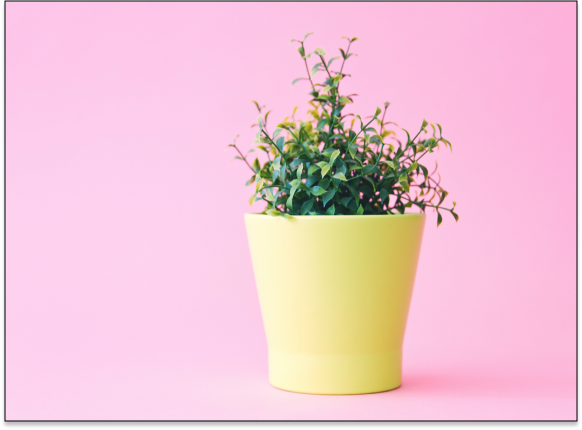
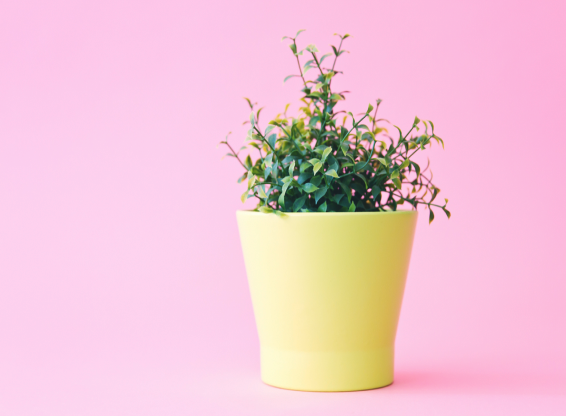
#8

Changed region(s): [[0.0, 0.0, 1.0, 1.0]]

diff --git a/style.css b/style.css
@@ -25,7 +25,7 @@ body {
 img {
   width: 100%;
   height: 100%;
-  object-fit: contain;
+  object-fit: cover;
   object-position: center;
 }
 
@@ -72,7 +72,7 @@ details > summary {
 }
 
 .menu__btn img {
-  object-fit: cover;
+  object-fit: contain;
 }
 
 .menu__nav {
@@ -106,6 +106,9 @@ details > summary {
 .logo {
   width: 5.9rem;
   height: 3.9rem;
+}
+.header__logo-img {
+  object-fit: contain;
 }
 
 /* TOP BANNER  */
@@ -167,6 +170,7 @@ details > summary {
   filter: progid:DXImageTransform.Microsoft.gradient(startColorstr="#4a4a4a", endColorstr="#ffffff", GradientType=1);
 }
 .potted {
+  margin-bottom: 23rem;
   position: relative;
   padding-top: 14.1rem;
 }
@@ -257,7 +261,7 @@ details > summary {
 
 .carousel__article {
   max-width: 43.3rem;
-  margin-right: 40px;
+  margin-right: 4rem;
 }
 
 .carousel__title {
@@ -310,6 +314,107 @@ details > summary {
   background: transparent;
 }
 
+.vp {
+  min-height: 57.2rem;
+}
+.vp > .wrapper {
+  display: flex;
+  flex-wrap: wrap-reverse;
+  gap: 1rem;
+  justify-content: center;
+}
+.vp__article {
+  display: flex;
+  justify-content: space-between;
+}
+.vp__article-vase {
+  max-width: 38rem;
+  flex-direction: row;
+}
+.vp__article-spot {
+  max-width: 57.2rem;
+  flex-direction: column;
+}
+.vp__info {
+  display: flex;
+  flex-direction: column;
+  margin-bottom: 27rem;
+}
+.vp__title {
+  width: 3.3rem;
+  margin-right: 2rem;
+  font-family: "Roboto", sans-serif;
+  font-size: 4.8rem;
+  line-height: 1.15;
+  letter-spacing: 1rem;
+  word-break: break-all;
+}
+.vp__img {
+  min-height: 42rem;
+}
+.vp__text {
+  padding: 2.4rem 5rem;
+  text-align: center;
+  font-family: "Mukta Vaani", sans-serif;
+  font-size: 2.4rem;
+  line-height: 1.46;
+  text-align: center;
+  color: #4a4a4a;
+}
+
+.vp__btn {
+  width: inherit;
+  display: inline-flex;
+  align-items: center;
+  justify-content: space-between;
+  background-color: transparent;
+  border: none;
+  cursor: pointer;
+}
+
+.vp__btn > span {
+  display: inline-block;
+}
+
+.vp__btn > span:nth-of-type(1) {
+  padding: 1.5rem 4.6rem;
+  font-family: "Koulen", sans-serif;
+  font-size: 3.6rem;
+  letter-spacing: 0.8rem;
+  color: var(--main-color, #7a797a);
+  text-align: center;
+  white-space: nowrap;
+  border: 3px solid #979797;
+}
+
+.vp__btn > span:nth-of-type(2) {
+  width: 6.7rem;
+  height: 3.1rem;
+}
+.footer {
+        position: relative;
+  height: 17.7rem;
+  display: flex;
+  justify-content: center;
+  align-items: center;
+}
+.footer__img {
+  position: absolute;
+  width: 30rem;
+  height: 27.8rem;
+  bottom: 0;
+  left: 5%;
+}
+.footer > .wrapper {
+  height: auto;
+}
+.footer__text {
+  font-family: "Mukta Vaani", sans-serif;
+  font-size: 2.4rem;
+  line-height: 1.46;
+  text-align: center;
+  color: #4a4a4a;
+}
 @media screen and (max-width: 1400px) {
   html {
     font-size: 9px;
@@ -359,6 +464,10 @@ details > summary {
     z-index: 10;
     right: 10%;
     filter: opacity(0.8);
+  }
+  .vp__article-spot,
+  .vp__article-vase {
+    max-width: 100%;
   }
 }
 

diff --git a/index.html b/index.html
@@ -155,8 +155,52 @@
         </div>
       </section>
       <!--VASES & SPOTS PLANTS-->
+      <section class="vp">
+        <div class="wrapper">
+          <article class="vp__article vp__article-vase">
+            <h3 class="vp__title">VASES & POTS</h3>
+            <div class="vp__info">
+              <figure class="vp__img">
+                <img src="img/vases_plant.png" alt="plant in vase" />
+              </figure>
+              <p class="vp__text">
+                Lorem ipsum dolor sit amet, consectetur adipiscing elit, sed do
+                eiusmod tempor incididunt ut labore et dolore magna aliqua.
+              </p>
+            </div>
+          </article>
+          <article class="vp__article vp__article-spot">
+            <div class="vp__info">
+              <figure class="vp__img">
+                <img src="img/spot_plant.png" alt="plant in spot" />
+              </figure>
+              <p class="vp__text">
+                Venim ad minim veniam, quis nostrud exercitation ullamco laboris
+                nisi ut aliquip ex ea commodo consequat.
+              </p>
+            </div>
+            <button class="vp__btn vp__btn-view">
+              <span>VIEW GALLERY</span>
+              <span>
+                <img
+                  src="img/arrow_right.svg"
+                  alt="arrow for gallery view"
+                  srcset=""
+                />
+              </span>
+            </button>
+          </article>
+        </div>
+      </section>
     </main>
-    <footer>2021</footer>
+    <footer class="footer">,
+            <figure class="footer__img">
+              <img src="img/spot_plant_2.png" alt="plant in spot">
+            </figure>
+            <div class="wrapper">
+              <p class="footer__text">2021</p>
+            </div>
+    </footer>
     <!--FOOTER-->
     <script src="script.js"></script>
   </body>
